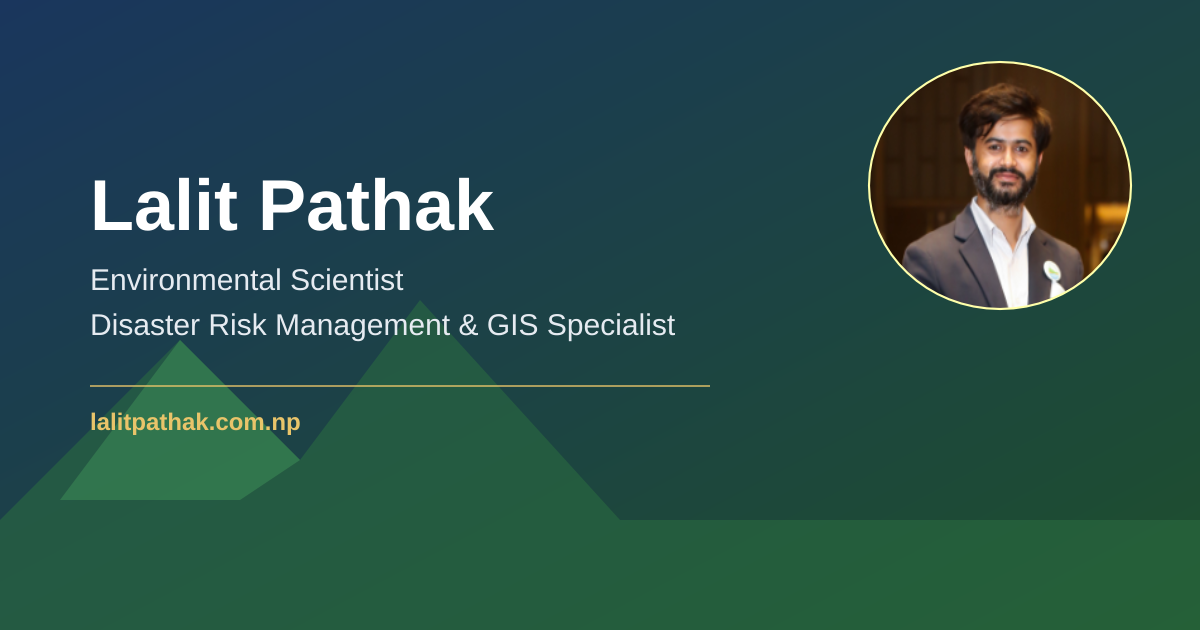
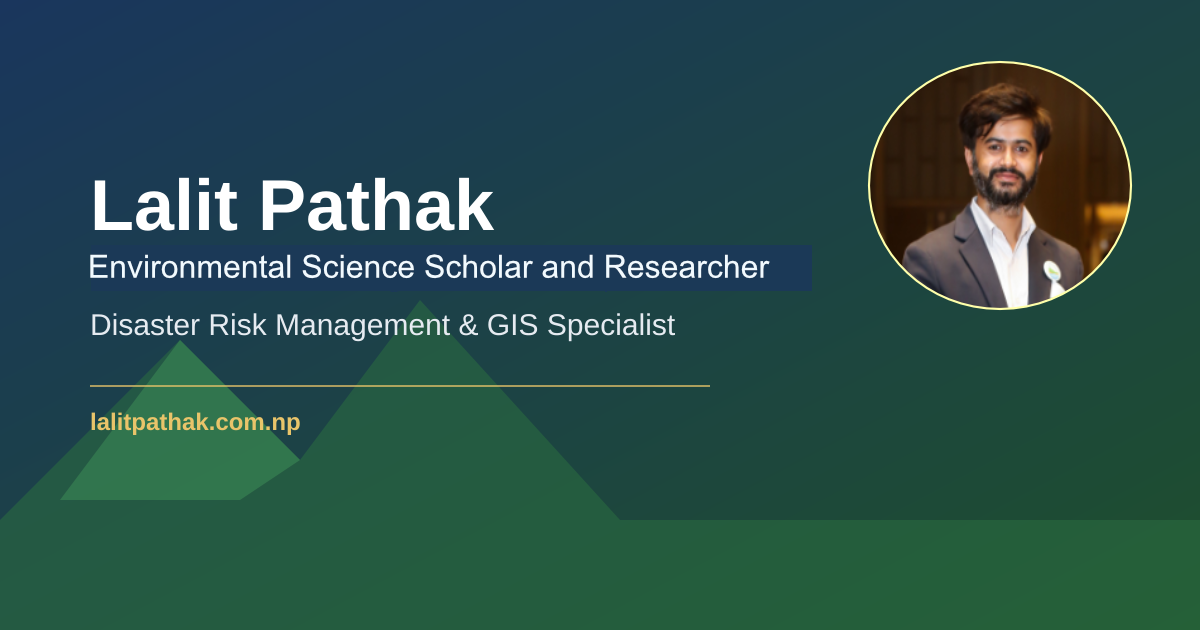
index file change

Changed region(s): [[0.0617, 0.3921, 0.6475, 0.4825]]

diff --git a/index.html b/index.html
@@ -5,7 +5,7 @@
 	<meta name="viewport" content="width=device-width, initial-scale=1">
 	<meta http-equiv="X-UA-Compatible" content="IE=edge,chrome=1">
 	<meta name="format-detection" content="telephone=no">
-	<title>Lalit Pathak - Environmental Scientist | Disaster Risk Management & GIS Specialist</title>
+	<title>Lalit Pathak - Environmental Science Scholar | Spatial Analytics Professional</title>
 	<meta name="description" content="Lalit Pathak is an Environmental Researcher and Research Associate at CREEW, Nepal, specializing in GIS, remote sensing, disaster risk management, and machine learning for climate resilience.">
 	<link rel="canonical" href="https://lalitpathak.com.np/">
 	<meta property="og:type" content="website">
